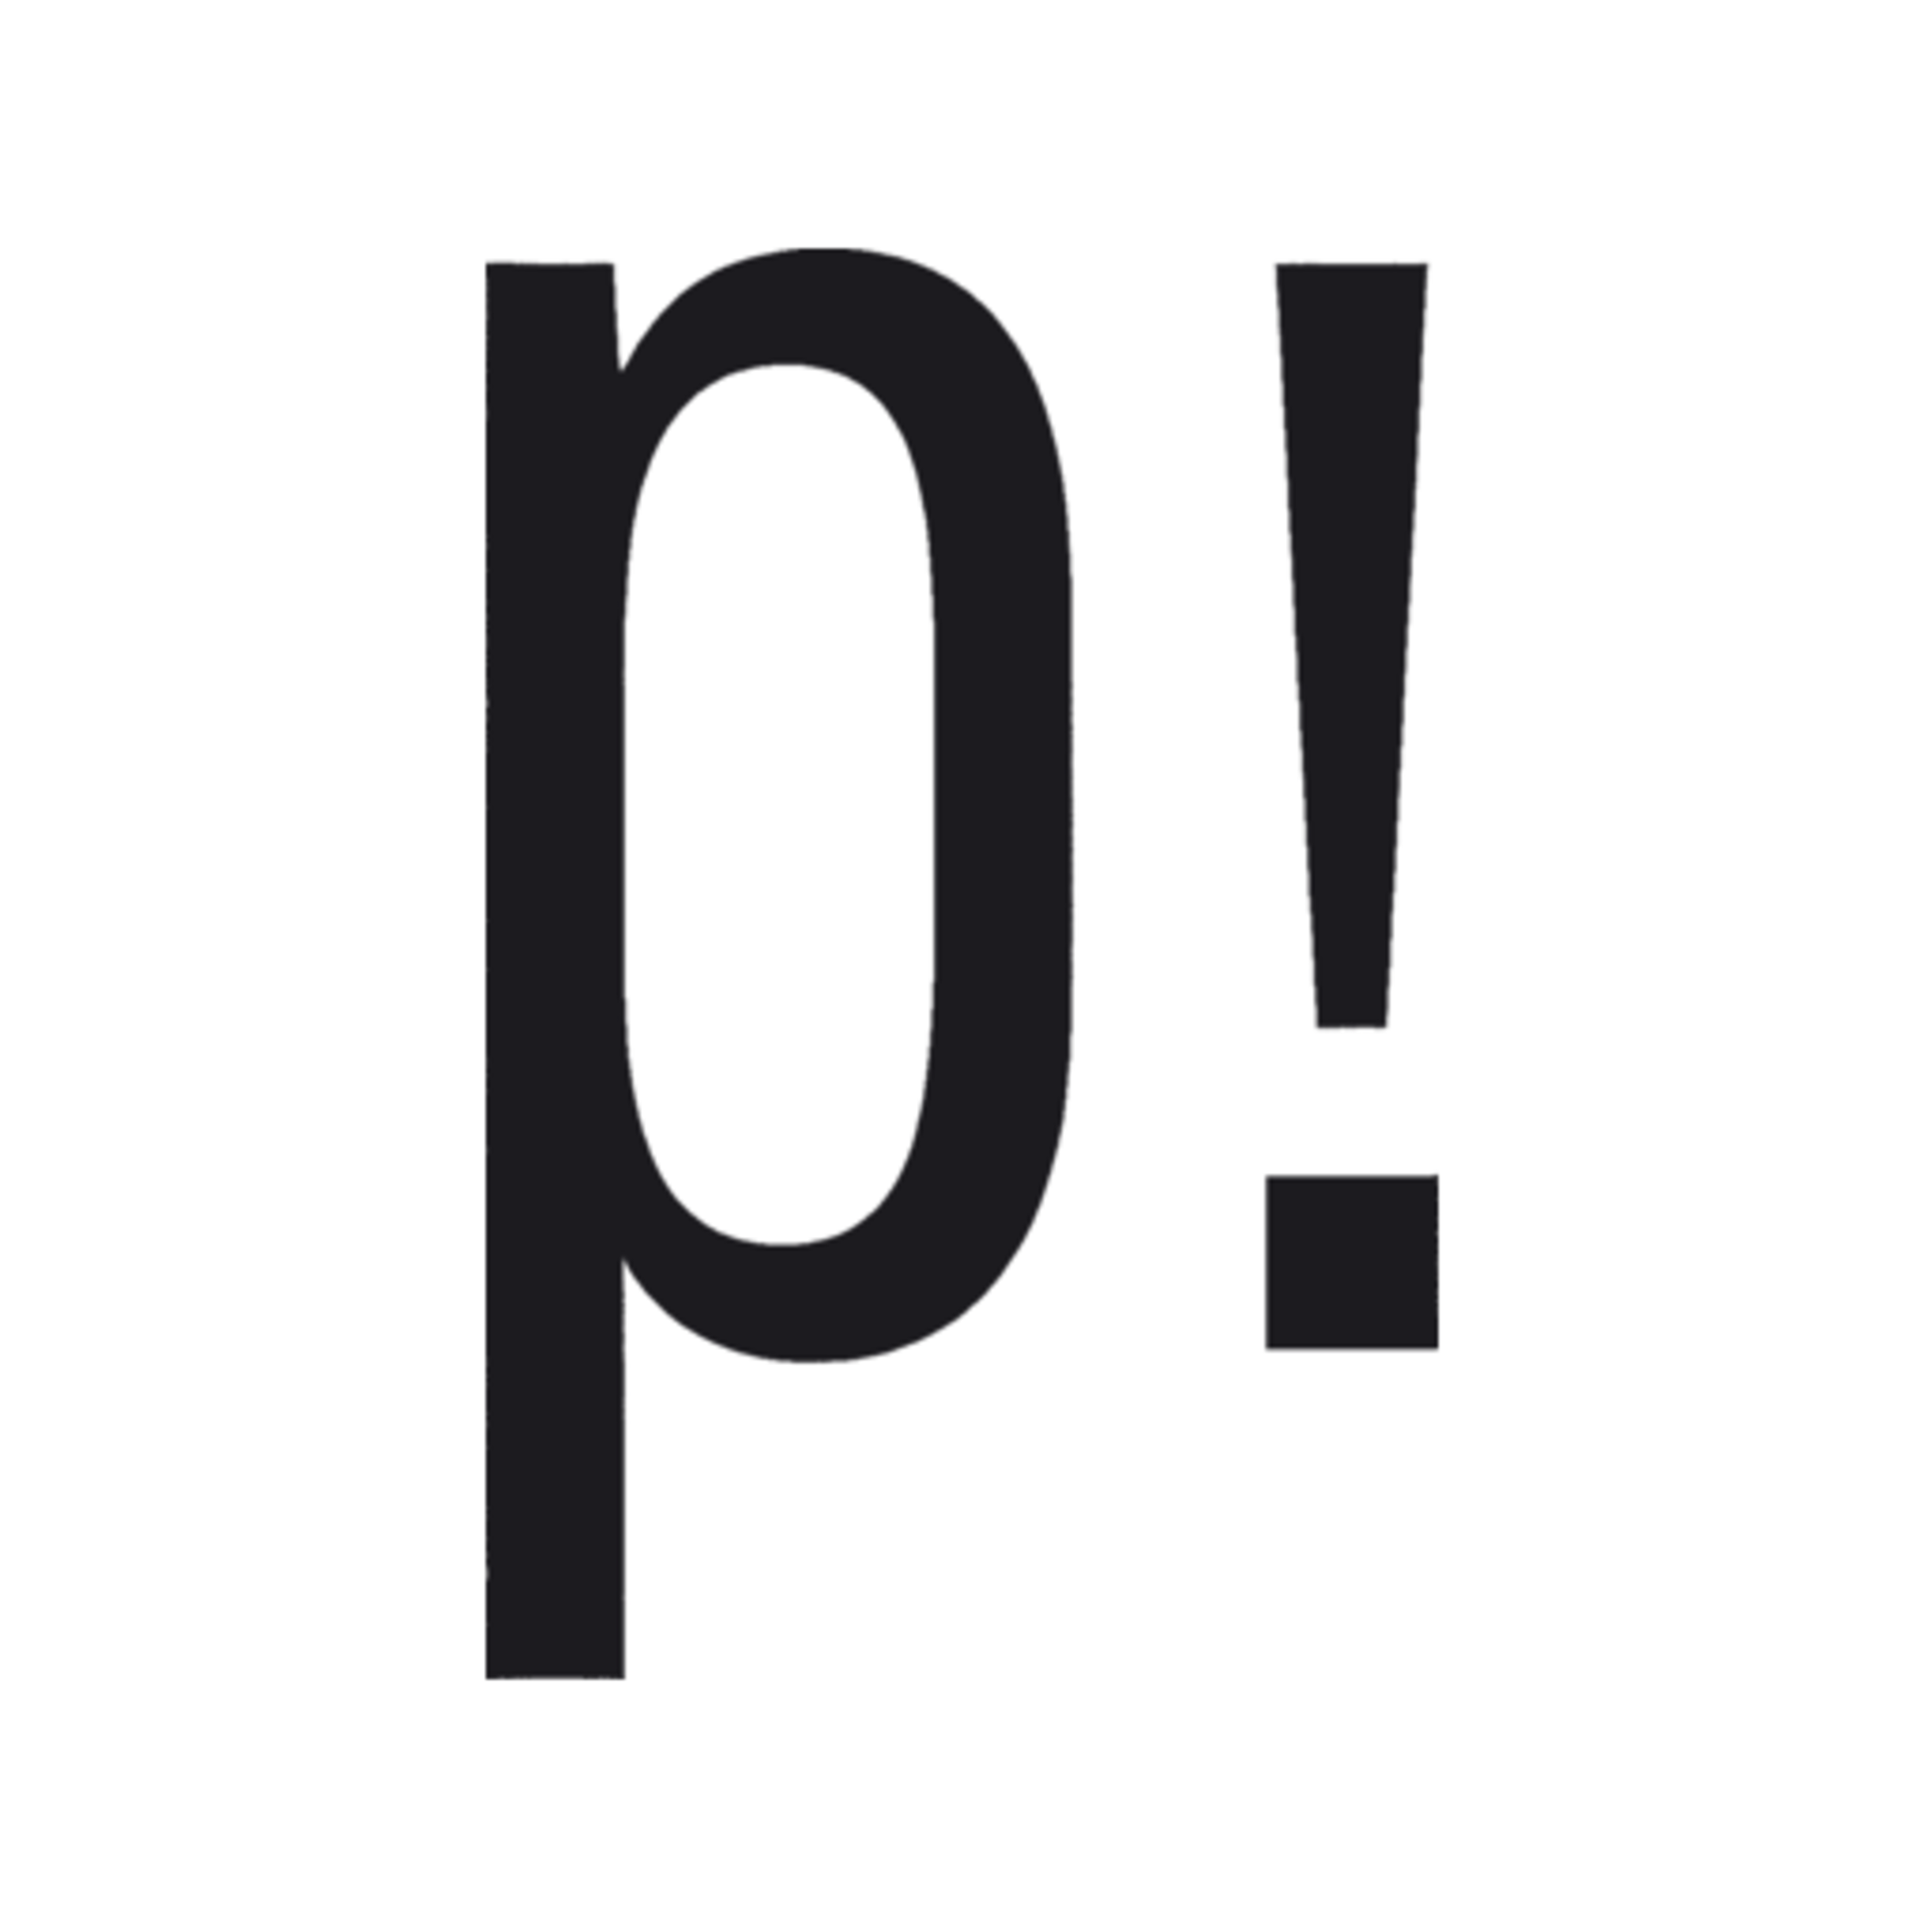
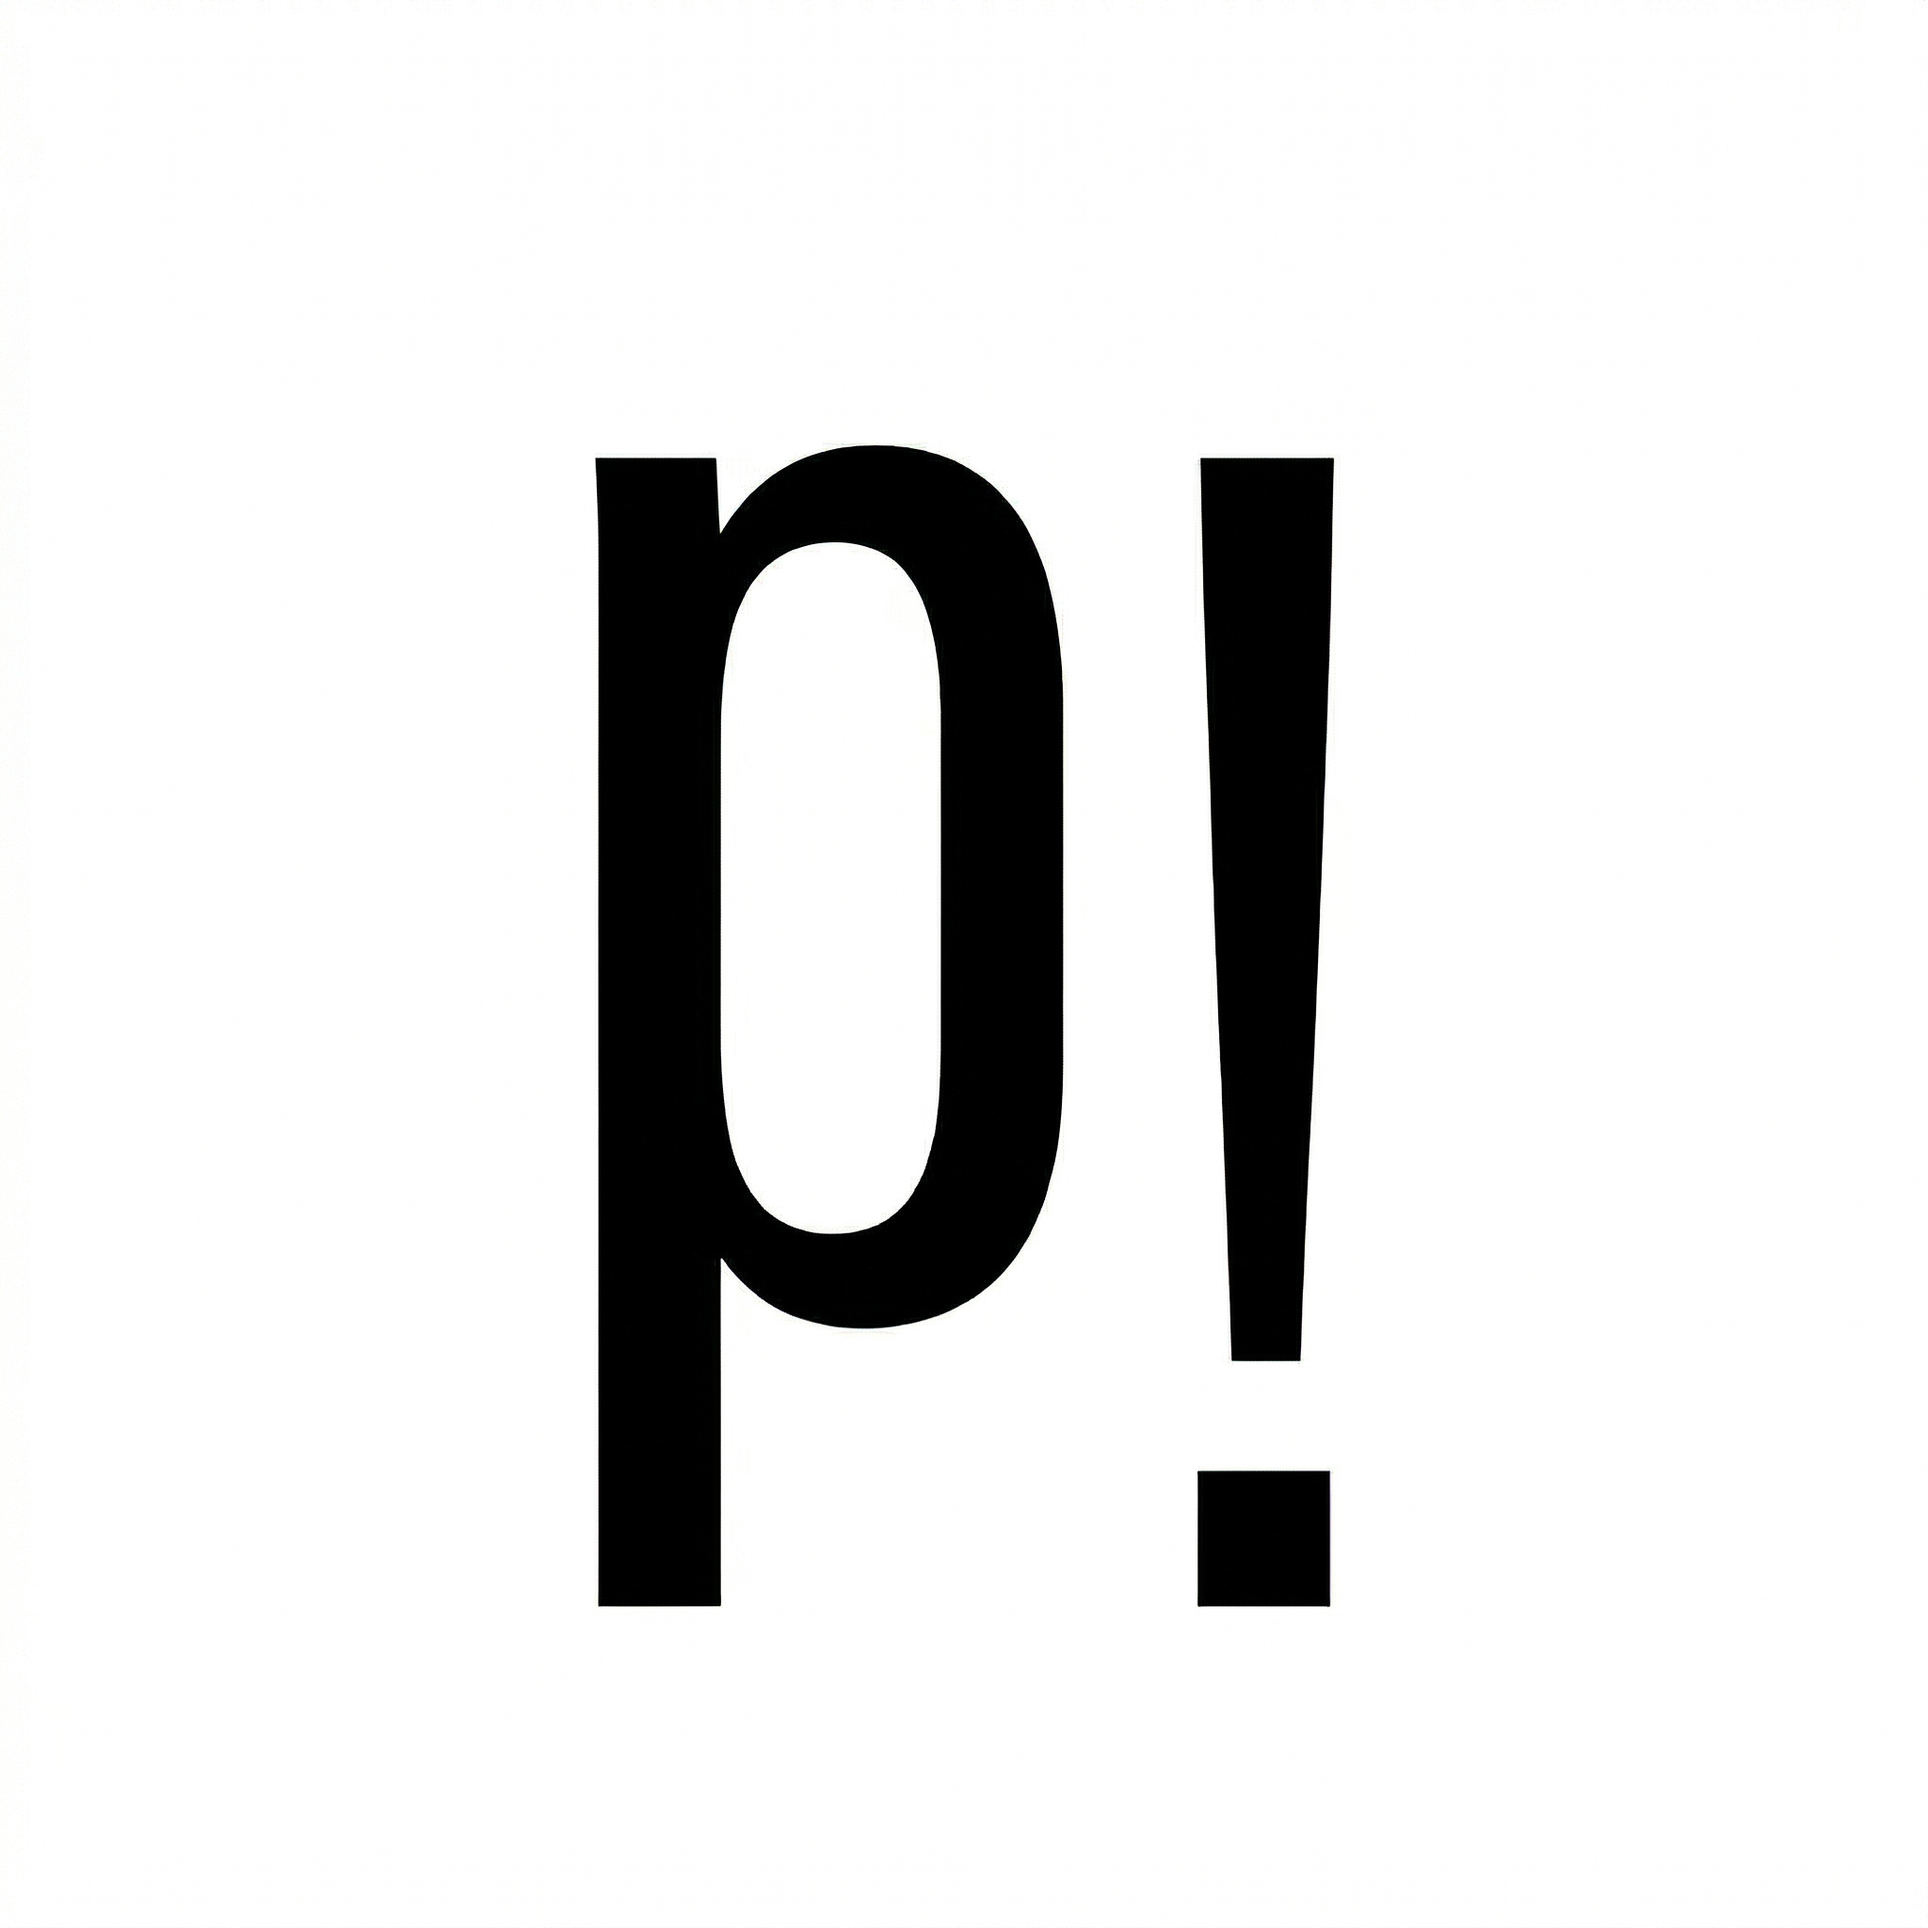
feat: login redesign M3 dark, splash screen PWA, nuova icona p!
- Login: rimossa mat-card, layout full-screen su sfondo primary (#1C1B1F),
  input Material M3 outlined con token dark override, bottone bianco/scuro
- Splash screen: div inline in index.html con logo centrato + fade-out in AppComponent
- Manifest: background_color + theme_color #1C1B1F per splash nativa Android
- Meta: theme-color, apple-mobile-web-app-capable per iOS
- Icona: nuova p! generata AI sostituisce favicon, PWA icons, logo ovunque

Changed region(s): [[0.25, 0.125, 0.5625, 0.875], [0.625, 0.125, 0.75, 0.7188], [0.5938, 0.75, 0.6875, 0.8438]]

diff --git a/frontend/src/app/components/login/login.html b/frontend/src/app/components/login/login.html
@@ -1,52 +1,55 @@
-<div class="login-container mat-app-background">
-  <mat-card class="login-card">
-    <div class="custom-header">
+<div class="login-container">
+  <div class="login-inner">
+    <div class="login-header">
       <img src="punto_logo_no_bg.png" alt="punto! logo" class="login-logo" />
-      <div class="subtitle mat-body-medium">{{ isRecoveringPassword ? 'Recupera Password' : (isRegistering ? 'Crea un Account' : 'Accedi al tuo Account') }}</div>
+      <p class="subtitle mat-body-medium">{{ isRecoveringPassword ? 'Recupera Password' : (isRegistering ? 'Crea un Account' : 'Accedi al tuo Account') }}</p>
     </div>
-    
-    <mat-card-content class="form-content">
-      <form (ngSubmit)="isRecoveringPassword ? recoverPassword() : onSubmit()">
+
+    <form (ngSubmit)="isRecoveringPassword ? recoverPassword() : onSubmit()">
+      <mat-form-field appearance="outline" class="full-width">
+        <mat-label>Email</mat-label>
+        <input matInput type="email" name="email" [(ngModel)]="email" required autocomplete="email">
+      </mat-form-field>
+
+      <ng-container *ngIf="!isRecoveringPassword">
         <mat-form-field appearance="outline" class="full-width">
-          <mat-label>Email</mat-label>
-          <input matInput type="email" name="email" [(ngModel)]="email" required>
+          <mat-label>Password</mat-label>
+          <input matInput [type]="showPassword ? 'text' : 'password'" name="password" [(ngModel)]="password" required autocomplete="current-password">
+          <button mat-icon-button matSuffix type="button" (click)="showPassword = !showPassword"
+                  [attr.aria-label]="showPassword ? 'Nascondi password' : 'Mostra password'">
+            <mat-icon>{{ showPassword ? 'visibility_off' : 'visibility' }}</mat-icon>
+          </button>
         </mat-form-field>
 
-        <ng-container *ngIf="!isRecoveringPassword">
-          <mat-form-field appearance="outline" class="full-width">
-            <mat-label>Password</mat-label>
-            <input matInput [type]="showPassword ? 'text' : 'password'" name="password" [(ngModel)]="password" required>
-            <button mat-icon-button matSuffix type="button" (click)="showPassword = !showPassword"
-                    [attr.aria-label]="showPassword ? 'Nascondi password' : 'Mostra password'">
-              <mat-icon>{{ showPassword ? 'visibility_off' : 'visibility' }}</mat-icon>
-            </button>
-          </mat-form-field>
+        <mat-form-field appearance="outline" class="full-width" *ngIf="isRegistering">
+          <mat-label>Conferma Password</mat-label>
+          <input matInput type="password" name="confirmPassword" [(ngModel)]="confirmPassword" required autocomplete="new-password">
+        </mat-form-field>
 
-          <mat-form-field appearance="outline" class="full-width" *ngIf="isRegistering">
-            <mat-label>Conferma Password</mat-label>
-            <input matInput type="password" name="confirmPassword" [(ngModel)]="confirmPassword" required>
-          </mat-form-field>
-          
-          <div class="forgot-password" *ngIf="!isRegistering" style="text-align: right; margin-bottom: 16px;">
-            <button mat-button type="button" color="primary" (click)="isRecoveringPassword = true" style="font-size: 0.9em; padding: 0;">Password dimenticata?</button>
-          </div>
-        </ng-container>
-
-        <div class="actions">
-          <button mat-flat-button color="primary" type="submit" [disabled]="isRecoveringPassword ? !email : (!email || !password)">
-            {{ isRecoveringPassword ? 'Invia Link di Recupero' : (isRegistering ? 'Registrati' : 'Accedi') }}
-          </button>
+        <div class="forgot-password" *ngIf="!isRegistering">
+          <button mat-button type="button" (click)="isRecoveringPassword = true">Password dimenticata?</button>
         </div>
-      </form>
-    </mat-card-content>
-    
-    <mat-card-actions align="end" style="flex-direction: column; align-items: stretch; padding: 8px 16px;">
-      <button mat-button type="button" (click)="isRegistering = !isRegistering; isRecoveringPassword = false" *ngIf="!isRecoveringPassword">
+      </ng-container>
+
+      <div class="actions">
+        <button mat-flat-button type="submit" class="submit-btn"
+                [disabled]="isRecoveringPassword ? !email : (!email || !password)">
+          {{ isRecoveringPassword ? 'Invia Link di Recupero' : (isRegistering ? 'Registrati' : 'Accedi') }}
+        </button>
+      </div>
+    </form>
+
+    <div class="secondary-actions">
+      <button mat-button type="button"
+              (click)="isRegistering = !isRegistering; isRecoveringPassword = false"
+              *ngIf="!isRecoveringPassword">
         {{ isRegistering ? 'Hai già un account? Accedi' : 'Non hai un account? Registrati' }}
       </button>
-      <button mat-button type="button" (click)="isRecoveringPassword = false" *ngIf="isRecoveringPassword">
+      <button mat-button type="button"
+              (click)="isRecoveringPassword = false"
+              *ngIf="isRecoveringPassword">
         Torna al Login
       </button>
-    </mat-card-actions>
-  </mat-card>
+    </div>
+  </div>
 </div>

diff --git a/frontend/src/app/components/login/login.scss b/frontend/src/app/components/login/login.scss
@@ -5,50 +5,88 @@
   height: 100vh;
   width: 100vw;
   box-sizing: border-box;
+  background: var(--punto-primary);
   padding: 24px;
+
+  // Override token M3 outlined text field → dark background
+  --mdc-outlined-text-field-input-text-color:        var(--punto-on-primary);
+  --mdc-outlined-text-field-label-text-color:        rgba(255, 255, 255, 0.6);
+  --mdc-outlined-text-field-outline-color:           rgba(255, 255, 255, 0.3);
+  --mdc-outlined-text-field-hover-outline-color:     rgba(255, 255, 255, 0.7);
+  --mdc-outlined-text-field-focus-outline-color:     var(--punto-on-primary);
+  --mdc-outlined-text-field-focus-label-text-color:  var(--punto-on-primary);
+  --mdc-outlined-text-field-hover-label-text-color:  rgba(255, 255, 255, 0.87);
+  --mdc-outlined-text-field-caret-color:             var(--punto-on-primary);
+  --mat-icon-button-icon-color:                      rgba(255, 255, 255, 0.7);
 }
 
-.login-card {
+.login-inner {
   width: 100%;
-  max-width: 400px;
-  padding: 16px;
-  border-radius: var(--punto-shape-xl, 24px);
+  max-width: 360px;
 }
 
-.form-content {
-  margin-top: 24px;
-}
-
-.full-width {
-  width: 100%;
-  margin-bottom: 8px;
-}
-
-.actions {
+.login-header {
   display: flex;
-  justify-content: flex-end;
-  margin-top: 8px;
-  margin-bottom: 16px;
-}
-
-.custom-header {
-  display: flex !important;
-  flex-direction: column !important;
+  flex-direction: column;
   align-items: center;
-  justify-content: center;
-  padding-bottom: 16px;
+  margin-bottom: 40px;
 }
 
 .login-logo {
-  max-width: 160px;
-  height: auto;
-  margin-bottom: 8px;
-  filter: brightness(0);
+  width: 96px;
+  height: 96px;
+  border-radius: 20px;
+  object-fit: cover;
+  margin-bottom: 16px;
 }
 
 .subtitle {
   text-align: center;
   font-weight: 500;
-  color: var(--mat-sys-on-surface-variant);
+  color: rgba(255, 255, 255, 0.6);
+  margin: 0;
+}
+
+.full-width {
+  width: 100%;
+  margin-bottom: 4px;
+}
+
+.forgot-password {
+  text-align: right;
+  margin-top: -4px;
+  margin-bottom: 12px;
+
+  button {
+    color: rgba(255, 255, 255, 0.6);
+    font-size: 0.875rem;
+    padding: 0 4px;
+    min-width: 0;
+  }
+}
+
+.actions {
   margin-top: 8px;
+  margin-bottom: 8px;
+}
+
+.submit-btn {
+  width: 100%;
+  background-color: var(--punto-on-primary) !important;
+  color: var(--punto-primary) !important;
+  border-radius: var(--punto-shape-xl) !important;
+  height: 52px;
+  font-size: 1rem;
+  font-weight: 500;
+  letter-spacing: 0.02em;
+}
+
+.secondary-actions {
+  display: flex;
+  justify-content: center;
+  margin-top: 4px;
+
+  button {
+    color: rgba(255, 255, 255, 0.6);
+  }
 }

diff --git a/frontend/src/index.html b/frontend/src/index.html
@@ -5,6 +5,9 @@
     <title>punto!</title>
     <base href="/" />
     <meta name="viewport" content="width=device-width, initial-scale=1, interactive-widget=resizes-visual" />
+    <meta name="theme-color" content="#1C1B1F" />
+    <meta name="apple-mobile-web-app-capable" content="yes" />
+    <meta name="apple-mobile-web-app-status-bar-style" content="black" />
     <link rel="icon" type="image/png" href="favicon.png" />
     <link rel="apple-touch-icon" href="icons/icon-192x192.png" />
     <link rel="preconnect" href="https://fonts.googleapis.com" />
@@ -15,8 +18,33 @@
     />
     <link href="https://fonts.googleapis.com/icon?family=Material+Icons" rel="stylesheet" />
     <link rel="manifest" href="manifest.webmanifest" />
+    <style>
+      #splash-screen {
+        position: fixed;
+        inset: 0;
+        background: #1C1B1F;
+        display: flex;
+        align-items: center;
+        justify-content: center;
+        z-index: 9999;
+        transition: opacity 0.35s ease;
+      }
+      #splash-screen.splash-hidden {
+        opacity: 0;
+        pointer-events: none;
+      }
+      #splash-screen img {
+        width: 140px;
+        height: 140px;
+        border-radius: 28px;
+        object-fit: cover;
+      }
+    </style>
   </head>
   <body>
+    <div id="splash-screen">
+      <img src="punto_logo_no_bg.png" alt="punto!" />
+    </div>
     <app-root></app-root>
     <noscript>Please enable JavaScript to continue using this application.</noscript>
   </body>

diff --git a/frontend/src/app/components/login/login.ts b/frontend/src/app/components/login/login.ts
@@ -3,7 +3,6 @@ import { CommonModule } from '@angular/common';
 import { FormsModule } from '@angular/forms';
 import { Router } from '@angular/router';
 import { AuthService } from '../../services/auth';
-import { MatCardModule } from '@angular/material/card';
 import { MatFormFieldModule } from '@angular/material/form-field';
 import { MatInputModule } from '@angular/material/input';
 import { MatButtonModule } from '@angular/material/button';
@@ -11,7 +10,7 @@ import { MatIconModule } from '@angular/material/icon';
 @Component({
   selector: 'app-login',
   standalone: true,
-  imports: [CommonModule, FormsModule, MatCardModule, MatFormFieldModule, MatInputModule, MatButtonModule, MatIconModule],
+  imports: [CommonModule, FormsModule, MatFormFieldModule, MatInputModule, MatButtonModule, MatIconModule],
   templateUrl: './login.html',
   styleUrls: ['./login.scss']
 })

diff --git a/frontend/src/app/app.ts b/frontend/src/app/app.ts
@@ -1,4 +1,4 @@
-import { Component, signal } from '@angular/core';
+import { Component, signal, OnInit } from '@angular/core';
 import { RouterOutlet } from '@angular/router';
 
 @Component({
@@ -7,6 +7,14 @@ import { RouterOutlet } from '@angular/router';
   templateUrl: './app.html',
   styleUrl: './app.scss'
 })
-export class App {
+export class App implements OnInit {
   protected readonly title = signal('frontend');
+
+  ngOnInit() {
+    const splash = document.getElementById('splash-screen');
+    if (splash) {
+      splash.classList.add('splash-hidden');
+      setTimeout(() => splash.remove(), 380);
+    }
+  }
 }
